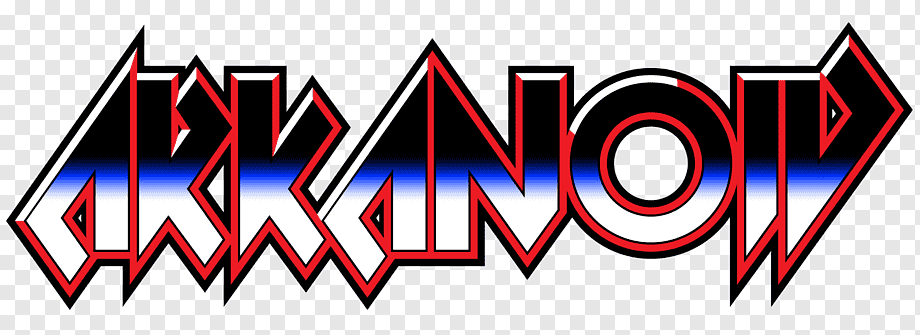
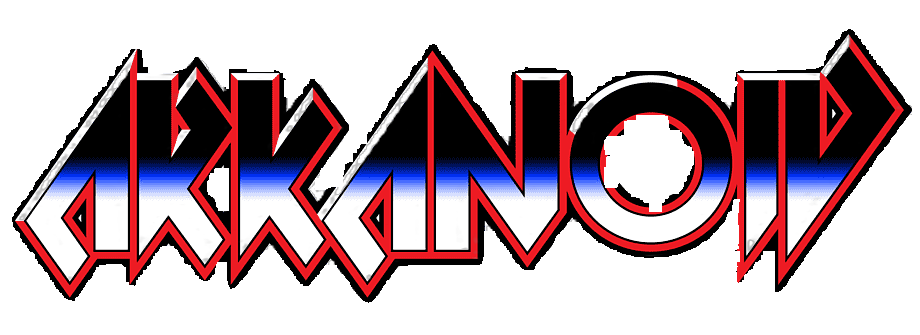
conmit tieu de

Changed region(s): [[0.0, 0.0, 1.0, 1.0], [0.6391, 0.3284, 0.7609, 0.6269], [0.213, 0.5075, 0.2739, 0.6269]]

diff --git a/src/GameRenderer.java b/src/GameRenderer.java
@@ -9,6 +9,7 @@ public class GameRenderer {
     private static final Font GAME_OVER_FONT = new Font("Ink Free", Font.BOLD, 75);
     private BufferedImage backgroundImage;
     private BufferedImage menuImage;
+    private BufferedImage titleImage;
     public GameRenderer(){
         try {
             backgroundImage = ImageIO.read(new File("images/back_ground_game.jpg"));
@@ -24,6 +25,14 @@ public class GameRenderer {
             System.err.println("Khong the in anh background");
             e.printStackTrace();
             menuImage = null;
+        }
+        try {
+            titleImage = ImageIO.read(new File("images/sf.png"));
+        }
+        catch (IOException e) {
+            System.err.println("Khong the in anh");
+            e.printStackTrace();
+            titleImage = null;
         }
     }
     public void render(Graphics g, GameManager manager, int width, int height) {
@@ -106,10 +115,15 @@ public class GameRenderer {
             }
 
         // Vẽ tiêu đề gần chính giữa main menu
-        g.setColor(Color.WHITE);
-        g.setFont(new Font("Consolas", Font.BOLD, 48));
-        String title = "ARKANOID";
-        g.drawString(title, (width - g.getFontMetrics().stringWidth(title))/2, height / 4);
+        if (titleImage != null) {
+            g.drawImage(titleImage, 210 , 20, 400, 200, null);
+        } else {
+            g.setColor(Color.WHITE);
+            g.setFont(new Font("Consolas", Font.BOLD, 48));
+            String title = "ARKANOID";
+            g.drawString(title, (width - g.getFontMetrics().stringWidth(title))/2, height / 4);
+        }
+
 
         // Vẽ menu options ở trung tâm
         String[] options = {"Start Game", "Top 5 Players", "How to Game", "Exit"};
